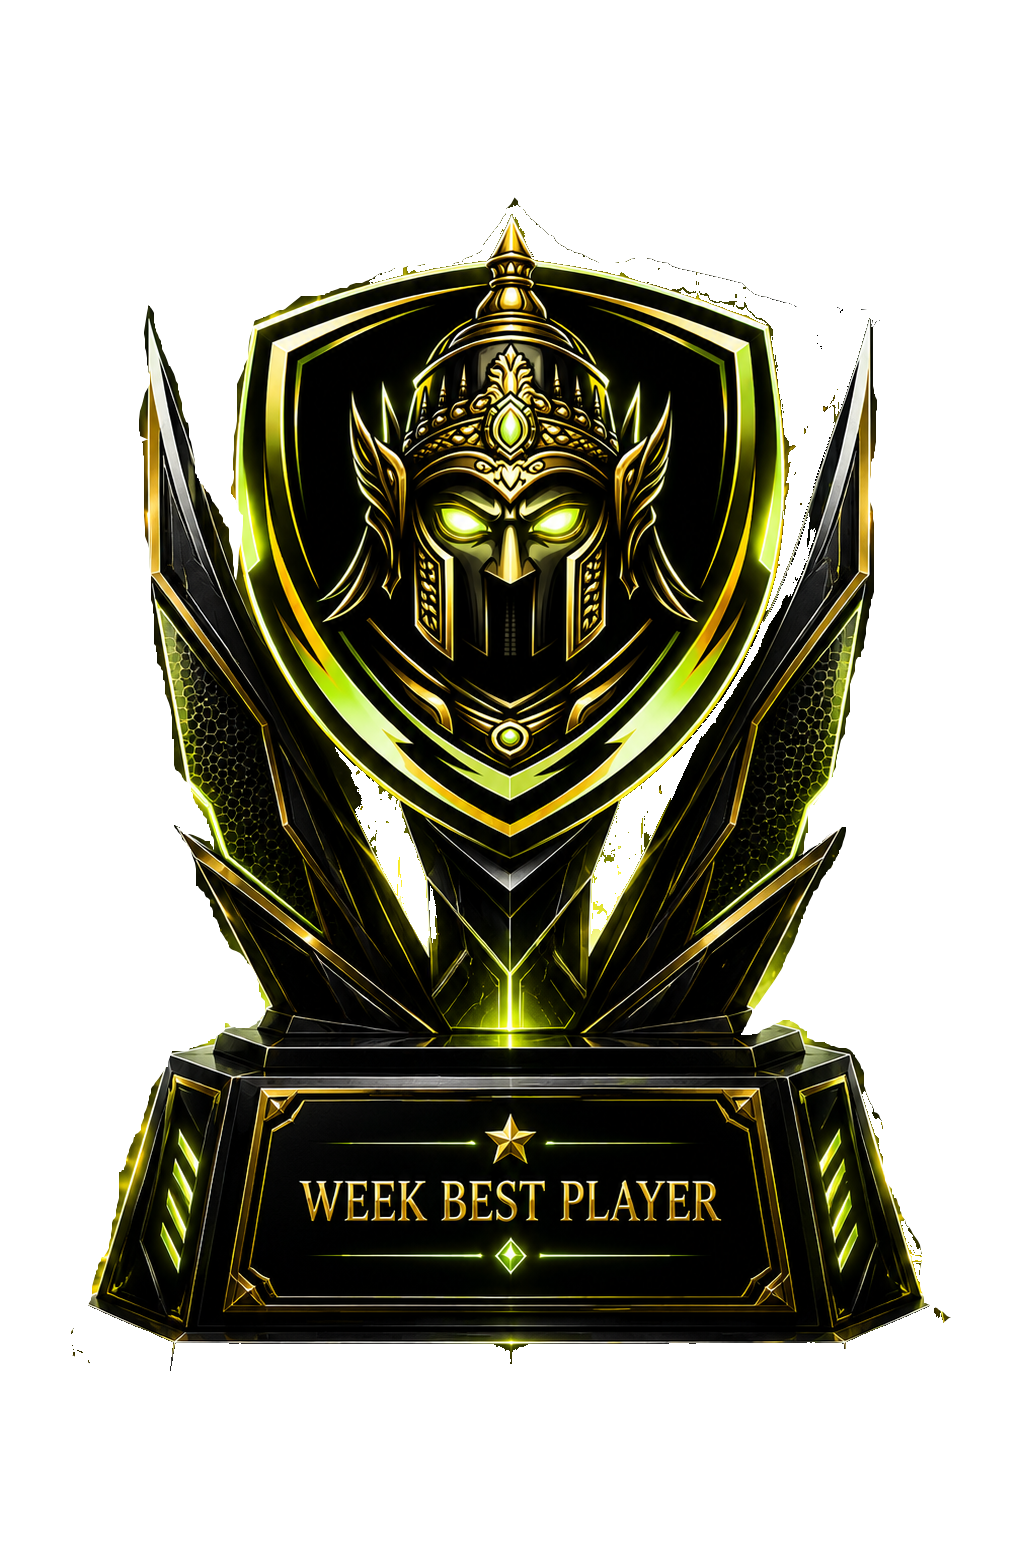
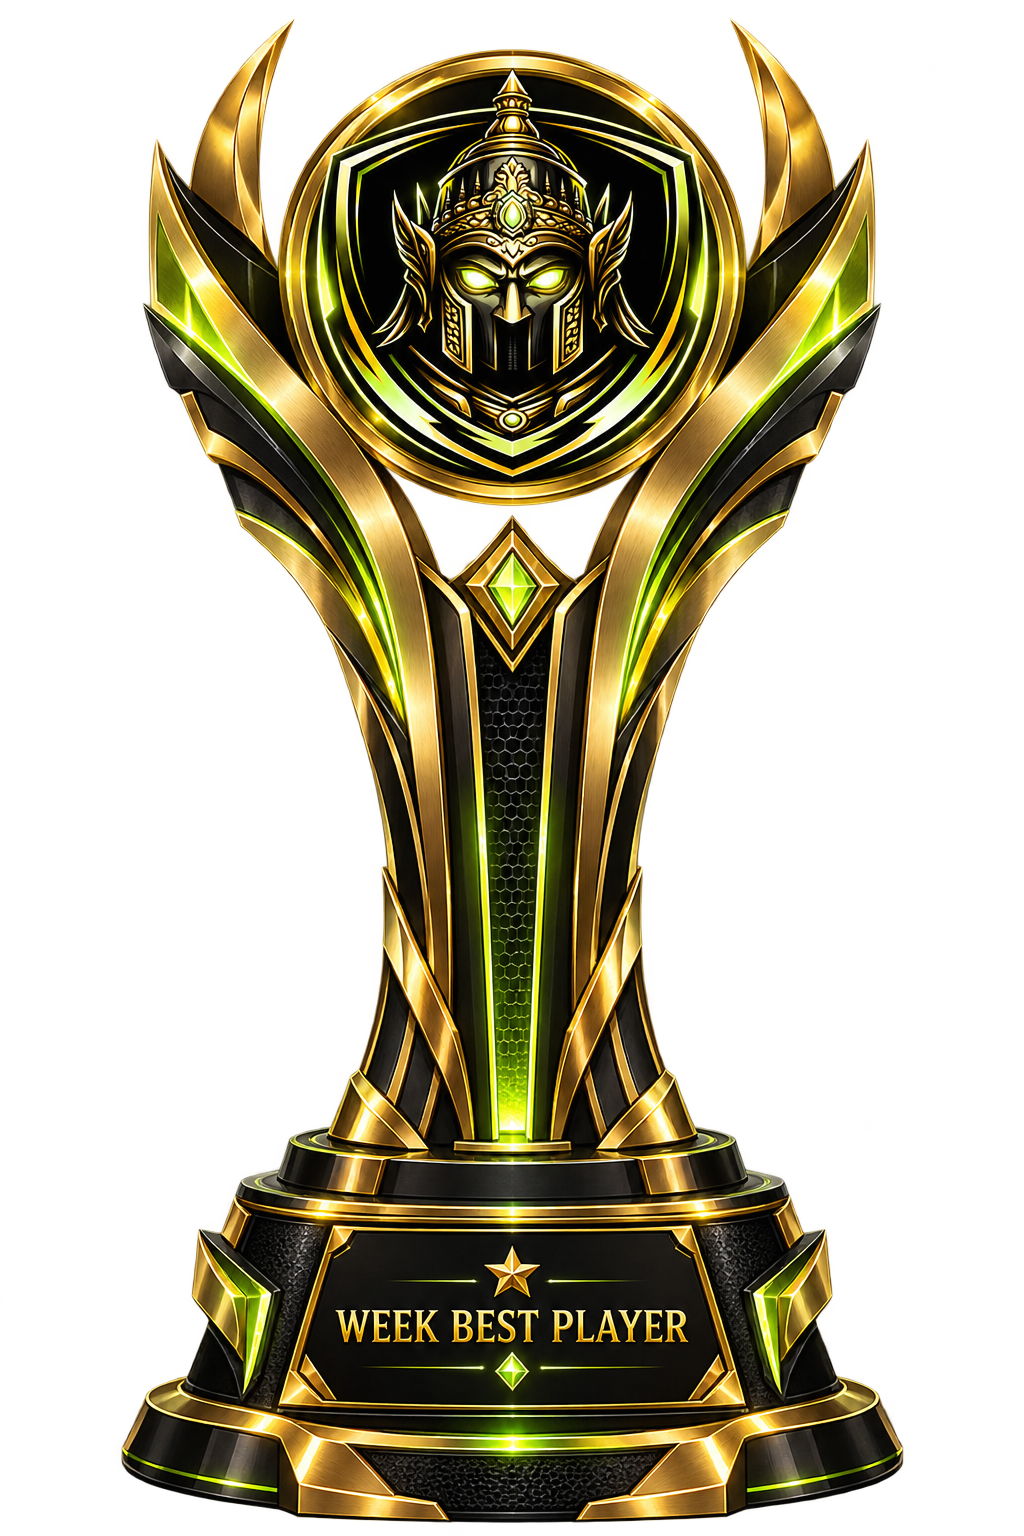
new features

diff --git a/client/src/components/admin/PlayerManagement.jsx b/client/src/components/admin/PlayerManagement.jsx
@@ -29,11 +29,13 @@ function EditableRow({ player, onPlayerClick, trophyYearOptions = [] }) {
   const [trophy6, setTrophy6] = useState(player.trophy6Count ?? 0)
   const [trophy7, setTrophy7] = useState(player.trophy7Count ?? 0)
   const [trophy8, setTrophy8] = useState(player.trophy8Count ?? 0)
+  const [trophy13, setTrophy13] = useState(player.trophy13Count ?? 0)
   const [trophyBase, setTrophyBase] = useState({
     t1: player.trophy1Count ?? 0, t2: player.trophy2Count ?? 0,
     t3: player.trophy3Count ?? 0, t4: player.trophy4Count ?? 0,
     t5: player.trophy5Count ?? 0, t6: player.trophy6Count ?? 0,
     t7: player.trophy7Count ?? 0, t8: player.trophy8Count ?? 0,
+    t13: player.trophy13Count ?? 0,
   })
 
   const applyTrophyData = (p) => {
@@ -42,10 +44,11 @@ function EditableRow({ player, onPlayerClick, trophyYearOptions = [] }) {
       t3: p?.trophy3Count ?? 0, t4: p?.trophy4Count ?? 0,
       t5: p?.trophy5Count ?? 0, t6: p?.trophy6Count ?? 0,
       t7: p?.trophy7Count ?? 0, t8: p?.trophy8Count ?? 0,
+      t13: p?.trophy13Count ?? 0,
     }
     setTrophy1(vals.t1); setTrophy2(vals.t2); setTrophy3(vals.t3)
     setTrophy4(vals.t4); setTrophy5(vals.t5); setTrophy6(vals.t6)
-    setTrophy7(vals.t7); setTrophy8(vals.t8)
+    setTrophy7(vals.t7); setTrophy8(vals.t8); setTrophy13(vals.t13)
     setTrophyBase(vals)
   }
 
@@ -101,7 +104,8 @@ function EditableRow({ player, onPlayerClick, trophyYearOptions = [] }) {
       trophy1 !== trophyBase.t1 || trophy2 !== trophyBase.t2 ||
       trophy3 !== trophyBase.t3 || trophy4 !== trophyBase.t4 ||
       trophy5 !== trophyBase.t5 || trophy6 !== trophyBase.t6 ||
-      trophy7 !== trophyBase.t7 || trophy8 !== trophyBase.t8
+      trophy7 !== trophyBase.t7 || trophy8 !== trophyBase.t8 ||
+      trophy13 !== (trophyBase.t13 ?? 0)
     )
 
     if (trophyChanged) {
@@ -112,12 +116,14 @@ function EditableRow({ player, onPlayerClick, trophyYearOptions = [] }) {
         trophy4Count: trophy4, trophy5Count: trophy5, trophy6Count: trophy6,
         trophy7Count: trophy7, trophy8Count: trophy8,
       })
+      setTrophyBase(prev => ({ ...prev, t13: trophy13 }))
       // Update base so further edits in the same session diff correctly
-      setTrophyBase({ t1:trophy1, t2:trophy2, t3:trophy3, t4:trophy4, t5:trophy5, t6:trophy6, t7:trophy7 })
+      setTrophyBase(prev => ({ ...prev, t1:trophy1, t2:trophy2, t3:trophy3, t4:trophy4, t5:trophy5, t6:trophy6, t7:trophy7, t8:trophy8 }))
     }
 
-    // Trophy counts are intentionally NOT added to body here — they're saved
-    // via updateTrophyYear above (year-scoped), never through updatePlayer.
+    // trophy13 (Week Best Player) is cumulative — saved directly via updatePlayer
+    if (trophy13 !== (trophyBase.t13 ?? 0)) body.trophy13Count = trophy13
+    // Other trophy counts are saved via updateTrophyYear above (year-scoped)
     if (!Object.keys(body).length && !trophyChanged) return setEditing(false)
     if (!Object.keys(body).length) { setEditing(false); setBdrDelta(""); return }
     updatePlayer.mutate({ id: player.id, ...body }, {
@@ -147,7 +153,7 @@ function EditableRow({ player, onPlayerClick, trophyYearOptions = [] }) {
     }
     setTrophy1(base.t1); setTrophy2(base.t2); setTrophy3(base.t3)
     setTrophy4(base.t4); setTrophy5(base.t5); setTrophy6(base.t6)
-    setTrophy7(base.t7); setTrophy8(base.t8)
+    setTrophy7(base.t7); setTrophy8(base.t8); setTrophy13(base.t13 ?? 0)
     setTrophyBase(base)
   }
 
@@ -416,7 +422,8 @@ function EditableRow({ player, onPlayerClick, trophyYearOptions = [] }) {
                 { label: "Weekly Golden Boot",      value: trophy5, onChange: setTrophy5 },
                 { label: "Dshann League Golden Boot", value: trophy6, onChange: setTrophy6 },
                 { label: "UCL Golden Boot",         value: trophy7, onChange: setTrophy7 },
-                { label: "Revolution",              value: trophy8, onChange: setTrophy8 },
+                { label: "Revolution",              value: trophy8,  onChange: setTrophy8 },
+                { label: "Week Best Player",         value: trophy13, onChange: setTrophy13 },
               ].map(t => (
                 <div key={t.label} className="flex items-center gap-2">
                   <span className="text-xs text-slate-500">{t.label}</span>

diff --git a/backend/src/routes/players.js b/backend/src/routes/players.js
@@ -35,7 +35,7 @@ router.get("/", async (req, res, next) => {
         id, name, alias, grade, "auctionPrice", "marketValue", "bdrPoints",
         form, "trophy1Count", "trophy2Count", "trophy3Count", "trophy4Count",
         "trophy5Count", "trophy6Count", "trophy7Count", "trophy8Count",
-        "trophy9Count", "trophy10Count", "trophy11Count",
+        "trophy9Count", "trophy10Count", "trophy11Count", "trophy13Count",
         "isCaptain", "gradeFloor", "gradeCeiling",
         team, "teamId", "teamLogo",
         "avatarId", "avatarUrl", "imageUrl"
@@ -207,6 +207,7 @@ const updateSchema = z.object({
   trophy5Count:  z.number().int().min(0).optional(),
   trophy6Count:  z.number().int().min(0).optional(),
   trophy7Count:  z.number().int().min(0).optional(),
+  trophy13Count: z.number().int().min(0).optional(),
 }).refine(d => Object.values(d).some(v => v !== undefined), {
   message: "Provide at least one field to update",
 })
@@ -264,6 +265,7 @@ router.patch("/:id", authenticate, adminOnly, async (req, res, next) => {
     const {
       name, alias, grade, gradeFloor, gradeCeiling, bdrDelta, isCaptain, auctionPrice, teamId, imageUrl,
       trophy1Count, trophy2Count, trophy3Count, trophy4Count, trophy5Count, trophy6Count, trophy7Count,
+      trophy13Count,
     } = updateSchema.parse(req.body)
 
     // teamId needs special handling: undefined = don't change, null = remove team
@@ -291,7 +293,8 @@ router.patch("/:id", authenticate, adminOnly, async (req, res, next) => {
         trophy4_count = COALESCE($12, trophy4_count),
         trophy5_count = COALESCE($13, trophy5_count),
         trophy6_count = COALESCE($14, trophy6_count),
-        trophy7_count = COALESCE($15, trophy7_count)
+        trophy7_count  = COALESCE($15, trophy7_count),
+        trophy13_count = COALESCE($18, trophy13_count)
       WHERE id = $16
       RETURNING id, name, alias, grade, grade_floor AS "gradeFloor", grade_ceiling AS "gradeCeiling",
                 image_url     AS "imageUrl",
@@ -306,7 +309,8 @@ router.patch("/:id", authenticate, adminOnly, async (req, res, next) => {
                 trophy4_count AS "trophy4Count",
                 trophy5_count AS "trophy5Count",
                 trophy6_count AS "trophy6Count",
-                trophy7_count AS "trophy7Count"
+                trophy7_count  AS "trophy7Count",
+                trophy13_count AS "trophy13Count"
     `, [
       name ?? null, alias ?? null, grade ?? null,
       bdrDelta ?? null, isCaptain ?? null, auctionPriceValue,
@@ -315,6 +319,7 @@ router.patch("/:id", authenticate, adminOnly, async (req, res, next) => {
       trophy4Count ?? null, trophy5Count ?? null,
       trophy6Count ?? null, trophy7Count ?? null,
       req.params.id, teamIdProvided,
+      trophy13Count ?? null,
 
     ])
 

diff --git a/client/src/pages/PlayerProfile.jsx b/client/src/pages/PlayerProfile.jsx
@@ -20,7 +20,8 @@ import revolutionTrophy   from "../../images/revolution.png"
 import europaTrophy       from "../../images/europa.png"
 import duoTrophy          from "../../images/duo.png"
 import duoBootTrophy      from "../../images/duoboot.png"
-import championshipTrophy  from "../../images/championship.png" 
+import championshipTrophy  from "../../images/championship.png"
+import weekBestTrophy      from "../../images/weektrophy.png"
 
 const FormDot = ({ result }) => {
   const cls = { W: "bg-emerald-500", D: "bg-amber-400", L: "bg-rose-500" }
@@ -119,6 +120,7 @@ function TrophyCase({ player }) {
     { image: uclGBTrophy,         label: "UCL Golden Boot",         count: player.trophy7Count  ?? 0 },
     { image: duoBootTrophy,        label: "Duo Golden Boot",         count: player.trophy11Count ?? 0 },
     { image: championshipTrophy,   label: "Championship",            count: player.trophy12Count ?? 0 },
+    { image: weekBestTrophy,       label: "Week Best Player",         count: player.trophy13Count ?? 0 },
   ]
   const total = trophies.reduce((a, t) => a + t.count, 0)
   return (

diff --git a/backend/src/routes/trending.js b/backend/src/routes/trending.js
@@ -161,6 +161,12 @@ router.post("/trigger-celebration", async (req, res, next) => {
     await upsert("weekly_celebration_power_team",    powerRank.teamName || "")
     await upsert("weekly_celebration_power_grade",   powerRank.grade || "")
 
+    // ── Auto-increment winner's Week Best Player trophy ────────────────────
+    await query(
+      "UPDATE players SET trophy13_count = COALESCE(trophy13_count, 0) + 1 WHERE id = $1",
+      [powerRank.id]
+    )
+
     // ── Reset: new window starts from NOW() ──────────────────────────────────
     // powerRankings.js reads this value and uses it as the window start,
     // so all match_records before this moment are excluded from rankings.
